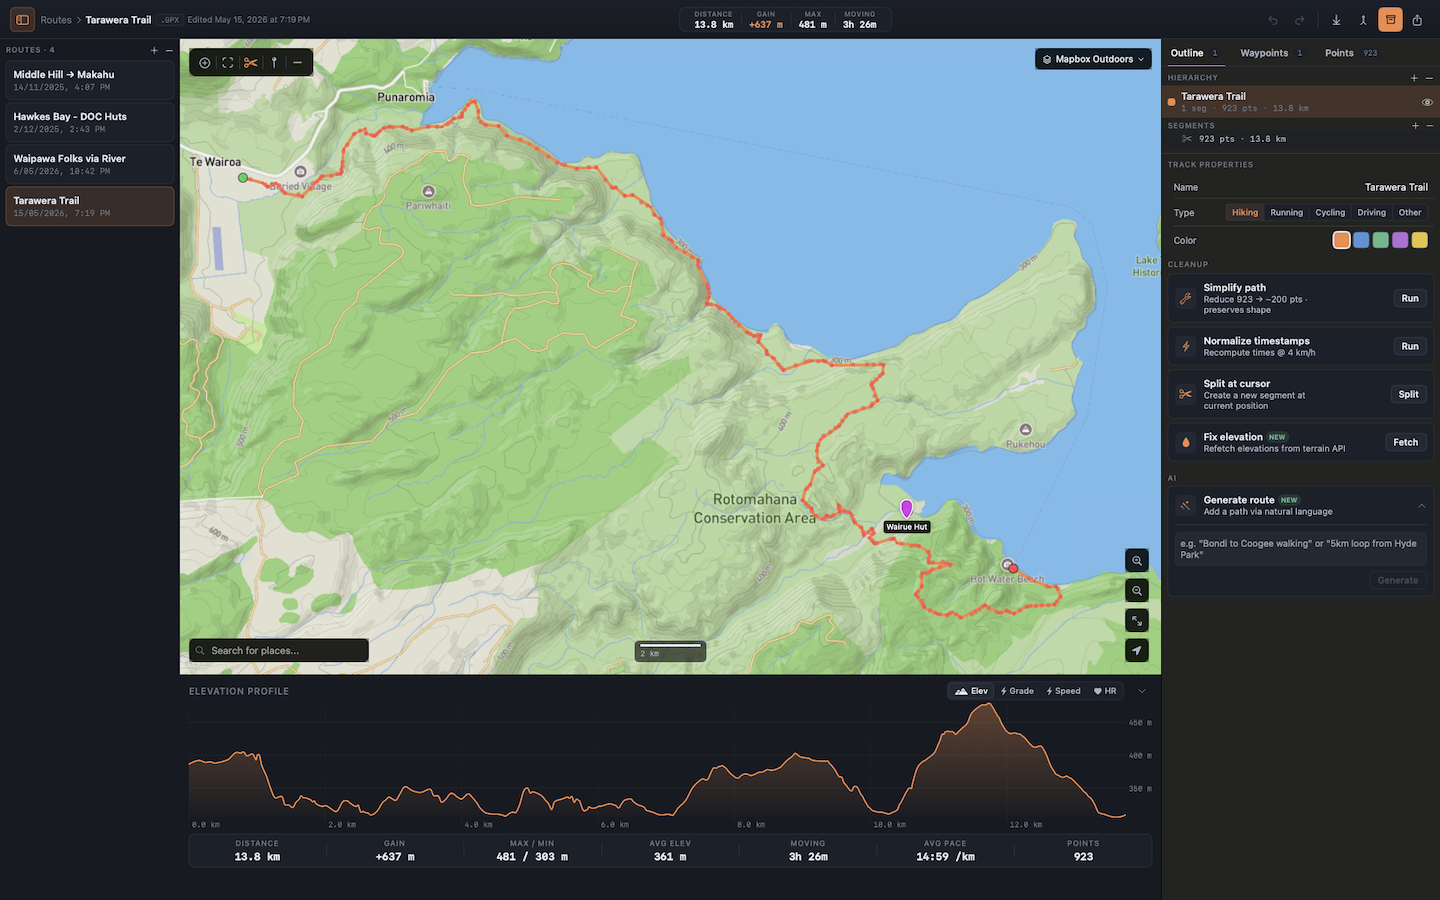
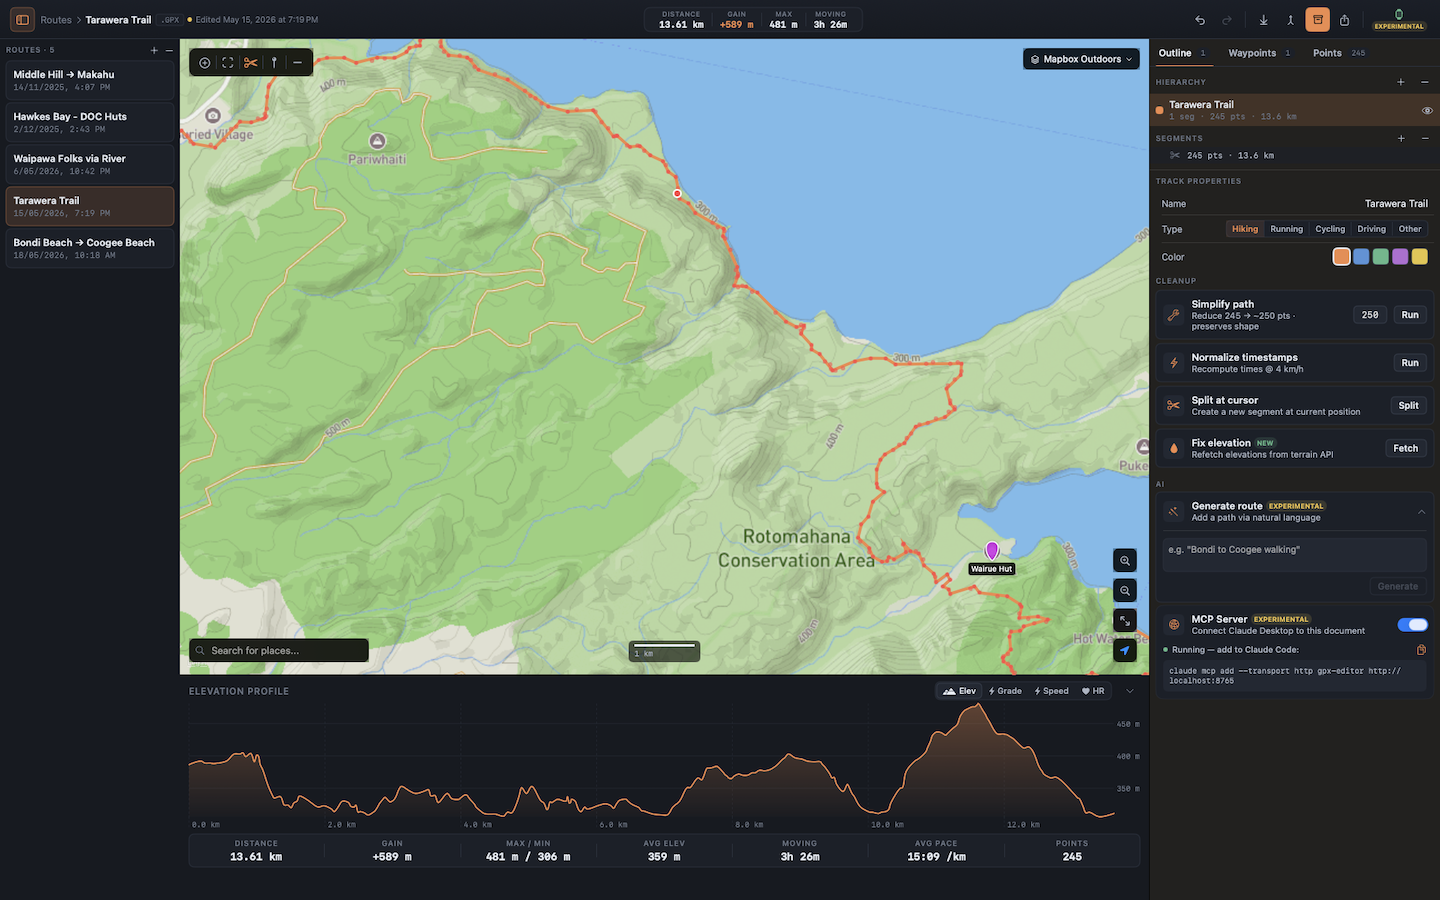
bump: 2.05 features.

diff --git a/index.html b/index.html
@@ -22,7 +22,7 @@
 <!-- ─────────── Top bar (mirrors the app chrome) ─────────── -->
 <div class="topbar">
     <div class="topbar-inner">
-        <div class="brand-mark"></div>
+        <img class="brand-mark" src="icon.png" alt="Magic GPX Editor icon">
         <span class="brand-name">Magic GPX Editor</span>
         <span class="brand-file">.gpx</span>
         <span class="topbar-divider"></span>
@@ -33,7 +33,7 @@
         <span class="topbar-divider"></span>
         <div class="topbar-stat">
             <span class="k">Version</span>
-            <span class="v accent">1.4</span>
+            <span class="v accent">2.05</span>
         </div>
         <div class="topbar-spacer"></div>
         <a class="topbar-link" href="#features">Features</a>
@@ -48,9 +48,9 @@
     <div class="container hero-inner">
         <div>
             <span class="eyebrow"><span class="dot"></span>Native macOS · Universal</span>
-            <h1>Edit GPX tracks <br>with <span class="accent">precision</span>.</h1>
+            <h1>View, edit, and explore<br>your GPX files with <span class="accent">precision</span>.</h1>
             <p class="lede">
-                A fast, focused editor for GPS tracks, waypoints, and routes — built natively for macOS.
+                A full-featured map editor built for precision and ease of use.
                 Drop in a file, clean up the noise, and ship a tidy <span style="font-family:var(--mono);color:var(--text)">.gpx</span> in seconds.
             </p>
             <div class="hero-actions">
@@ -122,7 +122,7 @@
                 <div class="lights"><span></span><span></span><span></span></div>
                 <span class="title">Magic GPX Editor — Tarawera Trail.gpx</span>
             </div>
-            <img src="screenshot.png" alt="Magic GPX Editor showing the Tarawera Trail with map, elevation profile, and track property panels.">
+            <img src="screenshot.png" alt="Magic GPX Editor showing the Tarawera Trail on a topographic map with elevation profile and inspector panel.">
         </div>
     </div>
 </section>
@@ -162,12 +162,27 @@
             <div class="feature">
                 <div class="ico"><svg width="22" height="22" viewBox="0 0 24 24" fill="none" stroke="currentColor" stroke-width="1.6"><path d="M13 3l-9 11h6l-1 7 9-11h-6l1-7z" fill="currentColor" stroke="none"/></svg></div>
                 <h3>Simplify &amp; normalize</h3>
-                <p>Reduce 900+ noisy points to a clean ~200 while preserving shape. Recompute timestamps at a 4 km/h walking pace.</p>
+                <p>Reduce noisy points to a configurable target while preserving shape. Recompute timestamps at a 4 km/h walking pace.</p>
             </div>
             <div class="feature">
                 <div class="ico"><svg width="22" height="22" viewBox="0 0 24 24" fill="none" stroke="currentColor" stroke-width="1.6"><path d="M4 12h16M12 4v16"/></svg></div>
                 <h3>Merge GPX files</h3>
                 <p>Combine multiple files into one with full undo. Routes are converted to tracks on import for easier editing.</p>
+            </div>
+            <div class="feature">
+                <div class="ico"><svg width="22" height="22" viewBox="0 0 24 24" fill="none" stroke="currentColor" stroke-width="1.6"><circle cx="12" cy="12" r="4"/><path d="M12 2v2M12 20v2M2 12h2M20 12h2M4.93 4.93l1.41 1.41M17.66 17.66l1.41 1.41M4.93 19.07l1.41-1.41M17.66 6.34l1.41-1.41"/></svg></div>
+                <h3>Apple Intelligence</h3>
+                <p>Get AI-assisted suggestions for route development, powered by Apple Intelligence built into macOS.</p>
+            </div>
+            <div class="feature">
+                <div class="ico"><svg width="22" height="22" viewBox="0 0 24 24" fill="none" stroke="currentColor" stroke-width="1.6"><rect x="7" y="2" width="10" height="20" rx="2"/><path d="M9 6h6M9 18h6M12 14v2"/></svg></div>
+                <h3>Garmin sync <span style="font-size:10px;opacity:0.6;">Experimental</span></h3>
+                <p>Sync tracks and waypoints directly to a connected Garmin device. Tracks write as FIT course files; waypoints drop into the device's import folder.</p>
+            </div>
+            <div class="feature">
+                <div class="ico"><svg width="22" height="22" viewBox="0 0 24 24" fill="none" stroke="currentColor" stroke-width="1.6"><path d="M21 12a9 9 0 11-18 0 9 9 0 0118 0z"/><path d="M9 12l2 2 4-4"/></svg></div>
+                <h3>MCP server <span style="font-size:10px;opacity:0.6;">Experimental</span></h3>
+                <p>Run a local Model Context Protocol server and connect Claude Code or Claude Desktop directly to your open document — edit tracks and generate routes through natural language.</p>
             </div>
             <div class="feature">
                 <div class="ico"><svg width="22" height="22" viewBox="0 0 24 24" fill="none" stroke="currentColor" stroke-width="1.6"><circle cx="11" cy="11" r="6"/><path d="M20 20l-4-4"/></svg></div>

diff --git a/styles.css b/styles.css
@@ -102,11 +102,9 @@ a:hover {
 .brand-mark {
     width: 22px;
     height: 22px;
-    border-radius: 6px;
-    background:
-        radial-gradient(circle at 30% 30%, #ff9b5e 0%, var(--accent) 55%, #c94a22 100%);
-    box-shadow: inset 0 0 0 1px rgba(255,255,255,0.08);
+    border-radius: 5px;
     flex-shrink: 0;
+    object-fit: cover;
 }
 .brand-name {
     font-weight: 600;
